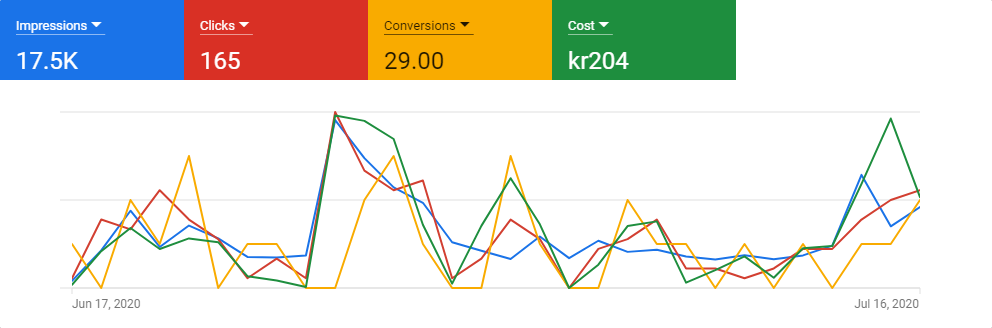
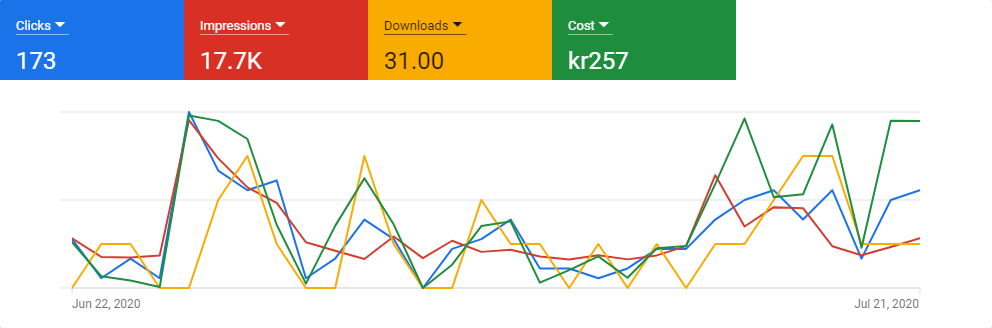
update

diff --git a/economy.html b/economy.html
@@ -1,7 +1,7 @@
 <div class="content" style="padding-bottom:25px;">
     The app server runs at a cost of 82 DKK per month, which is financed by Google until 2020 September due to their introductory offer.<br />
     Registering for Google Play had a one-time fee of 25 USD (172 DKK), while App Store charges 779 DKK per year.<br /><br />
-    There is an advertising campaign running in Denmark for the Android app with a daily budget of 10 DKK, and the amount to pay for an install is currently 8 DKK. This may be adjusted in the future to get the most out of the budget.<br /><br />
+    There is an advertising campaign running in Denmark for the Android app with a daily budget of 10 DKK, and the amount to pay for an install is currently 7.5 DKK. This may be adjusted in the future to get the most out of the budget.<br /><br />
     See the graph for the period of the last 30 days. Daily data shown below.<br /><br />
     <div style="width: 100%; padding-top: 33.0645%; text-align:center; position: relative">
         <div style="position:absolute; top:0px; left:20px; right:20px; bottom:20px">

diff --git a/Connection_public.php b/Connection_public.php
@@ -17,33 +17,50 @@ class Connection {
     private $port=null;
     private $socket=null;
     public $bucket=null;
-    const FIREBASE_KEY = "--------------------------------------------------------------------------------------------------------------------------------------------------------";
-    const GOOGLEMAPS_KEY = "---------------------------------------";
-    const EXCLUDED_IPS=array("192.168.0.100","-------------");
+    const FIREBASE_KEY = "";
+    const GOOGLEMAPS_KEY = "";
+    const OWN_IP = "";
+    const EXCLUDED_IPS=array("","","",self::OWN_IP);
+    const KEY_FILE = "";
+    const KID = "";
+    const ISS = "";
+    const BUNDLE_ID = "";
     
     function __construct() {
         switch ($_SERVER["HTTP_HOST"]) {
-            case "192.168.0.100":
+            case "":
+            case "":
+            case "":
                 // PHP Version 7.3.10
-                $this->servername = "---.---.---.---";
-                $this->username = "--------------------------------";
-                $this->password = "--------------------------------";
-                $this->dbname = isset($_GET["testDB"])?"--------------------------------":"--------------------------------";
+                $this->servername = "";
+                $this->username = "root";
+                $this->password = "";
+                $this->dbname = isset($_GET["testDB"])?"":"";
                 $this->port = 3306;
                 $_ENV["ROOT"] = ""; //local server needs to make a directory before writing nested file
                 break;
-            case "--------------------------------":
-                $this->servername = "localhost";
-                $this->username = "root";
-                $this->password = "--------------------------------";
-                $this->dbname = isset($_GET["testDB"])?"--------------------------------":"--------------------------------";
-                $this->socket = "/cloudsql/--------------------------------";        
+            case "":
+            case "":
+            case "":
+                $this->servername = "";
+                $this->username = "";
+                $this->password = "";
+                $this->dbname = isset($_GET["testDB"])?"":"";
+                $this->socket = "";        
                 require_once __DIR__ . '/vendor/autoload.php';
                 $projectID = $_ENV["PROJECT_NAME"];          
                 $client = new StorageClient(['projectId' => $projectID]);
                 $client->registerStreamWrapper();
                 $_ENV["ROOT"] = "gs://$projectID.appspot.com/"; //creates directory when writing nested file
                 $this->bucket = $client->bucket("$projectID.appspot.com");      
+                break;
+            case "":
+                // PHP Version 7.2.17
+                $this->servername = "";
+                $this->username = "";
+                $this->password = "";
+                $this->dbname= "";
+                $_ENV["ROOT"] = "";
                 break;
         }        
     }
@@ -58,6 +75,16 @@ class Connection {
         }
         $mysqli->set_charset('utf8mb4');
     }     
+}
+
+function useTestDatabase() { //used for admin login, where credentials are always stored in the real database
+    global $mysqli;
+    $mysqli->query("use ");
+}
+
+function useRealDatabase() {
+    global $mysqli;
+    $mysqli->query("use ");
 }
 
 function sqlexecuteliteral($querystr) {
@@ -190,7 +217,7 @@ function sqlinsert($table, $values, $requestid) {
 }
 
 function sqlupdate($table, $updatefields, $condition) {
-     global $mysqli;
+    global $mysqli;
      
     $querystr="update $table set ";
     $typestr="";
@@ -214,10 +241,13 @@ function sqlupdate($table, $updatefields, $condition) {
     else {
         $stmt->bind_param($typestr, ...$params);
         if (!$stmt->execute()) {
-            exit("Database error: ".$stmt->error);    
+            if ($table != "log_input") { //response can be cut half at a special character, resulting in database error
+                exit("Database error: ".$stmt->error);
+            }               
         }
         $stmt->close();
     }
+    
 }
 
 function sqldelete($table, $condition) {
